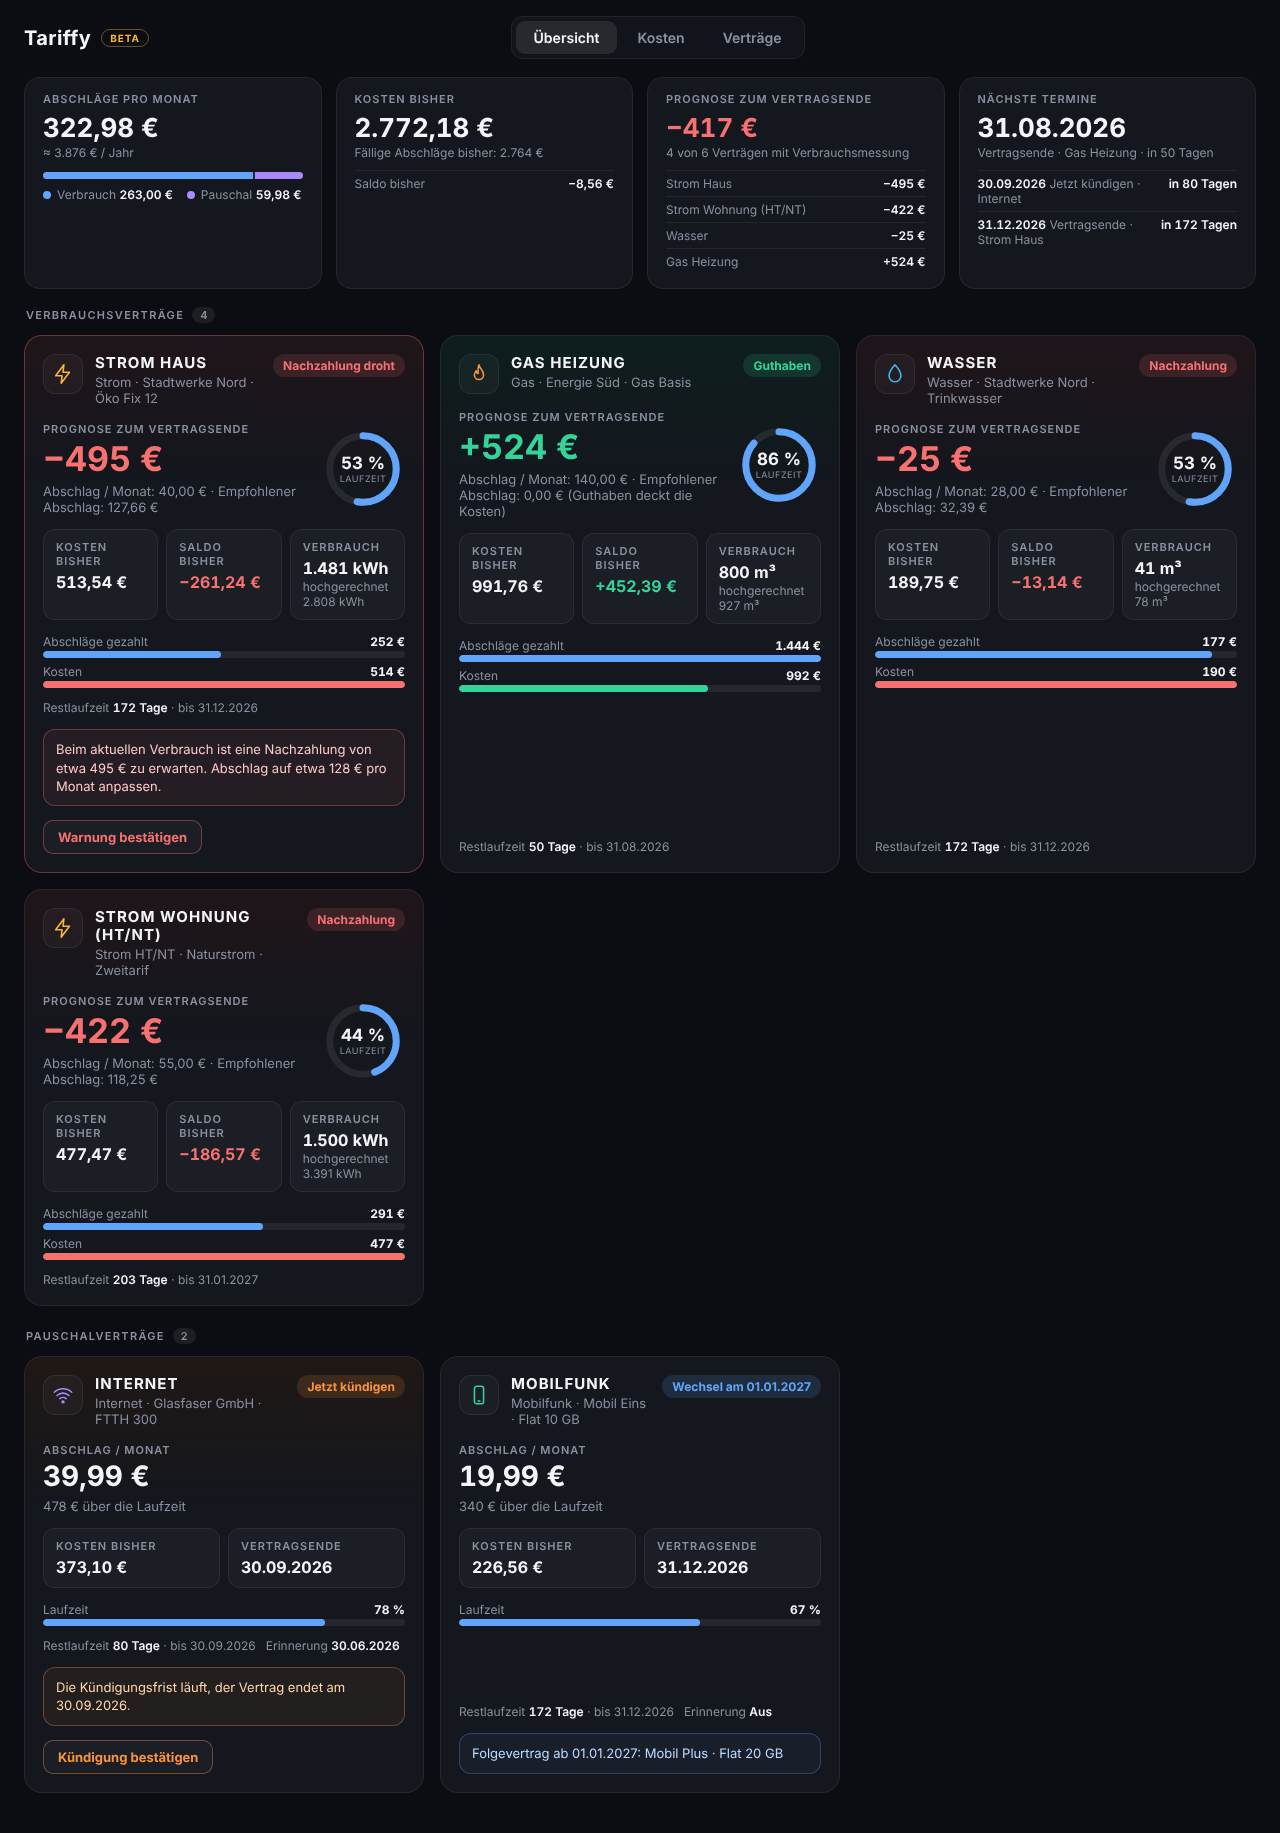
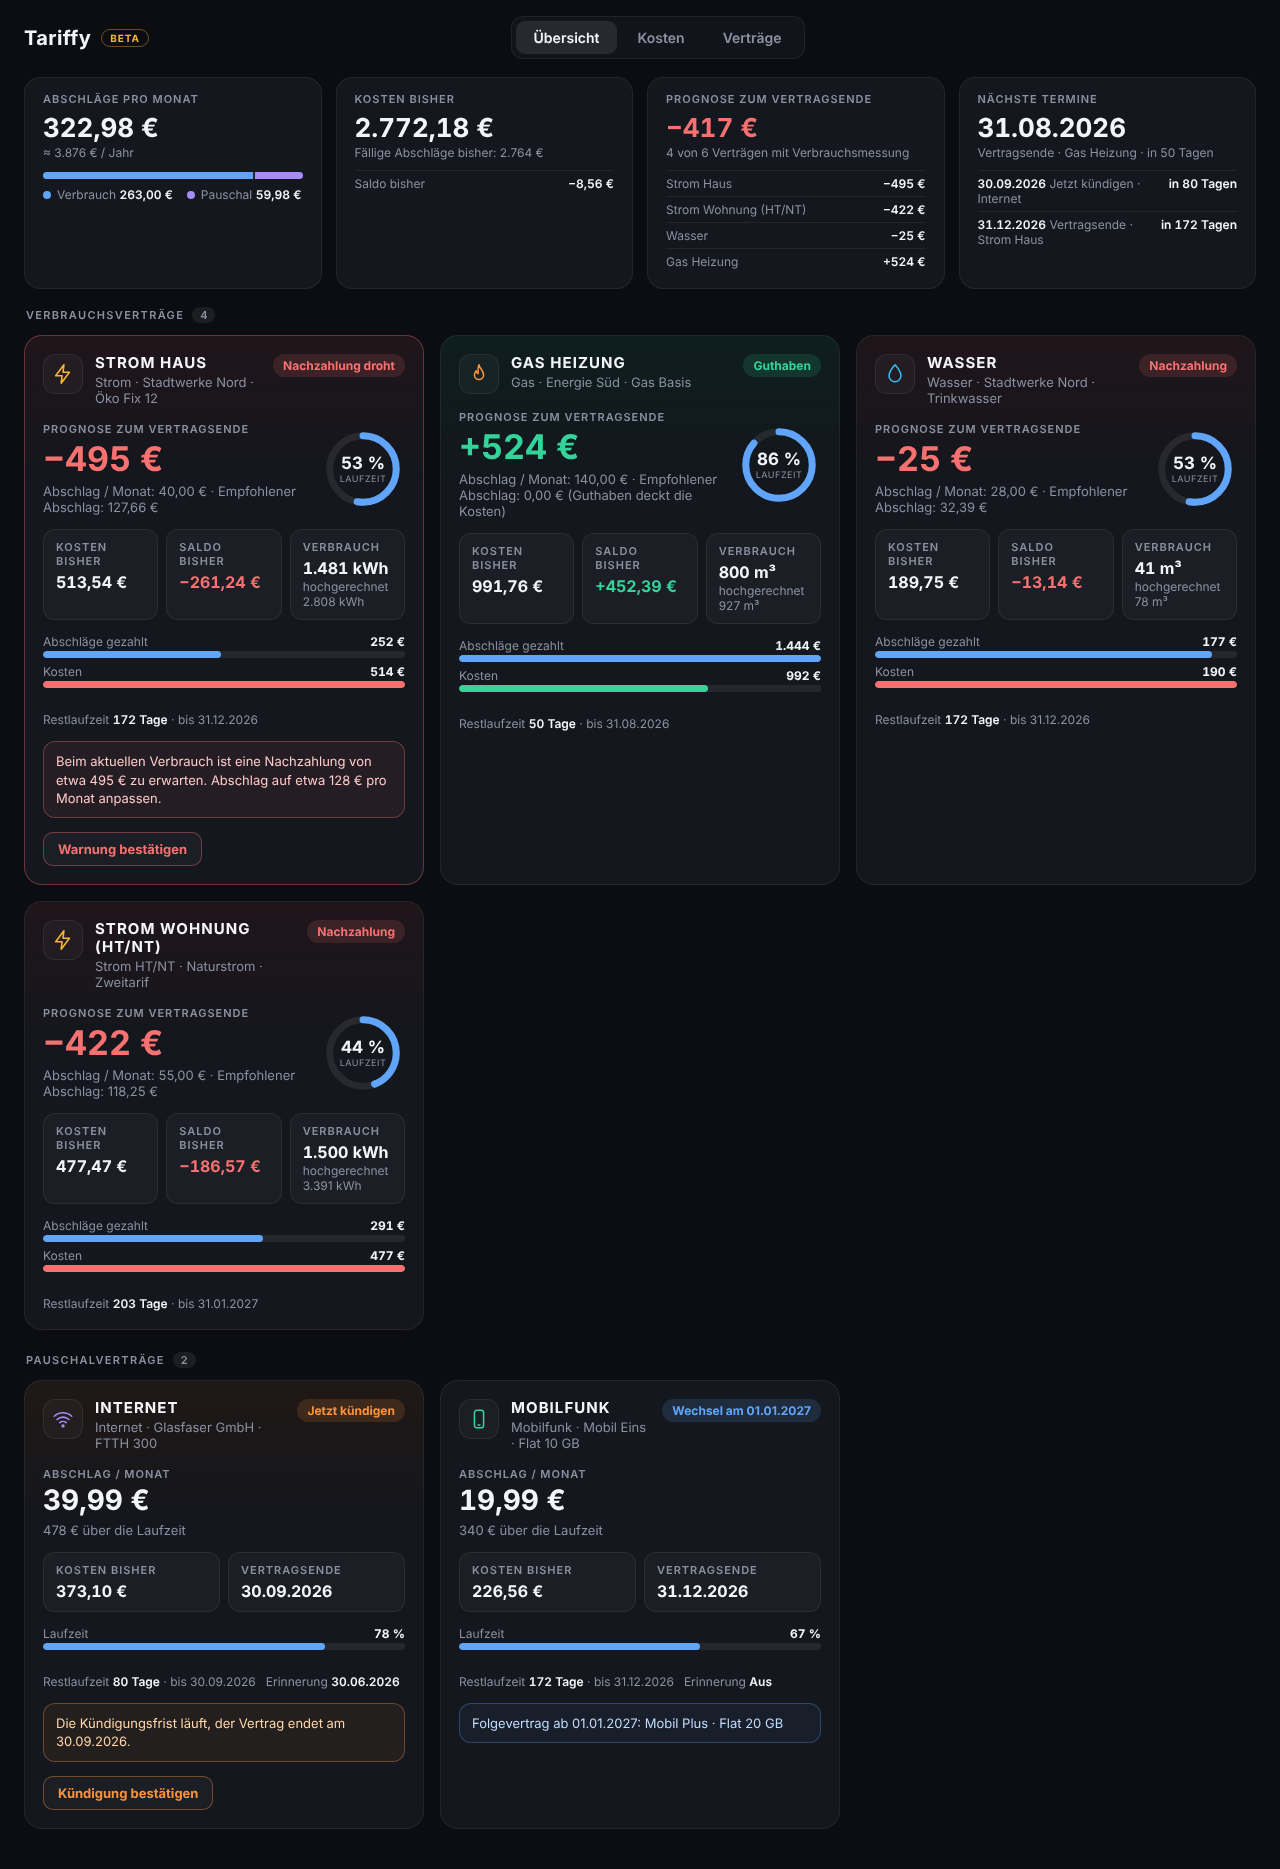
Panel: remaining term directly below the cost bars
Claude-Session: https://claude.ai/code/session_011wNPKqgRVqpMfNb2Np7XaH

diff --git a/custom_components/tariffy/frontend/tariffy-panel.js b/custom_components/tariffy/frontend/tariffy-panel.js
@@ -264,7 +264,7 @@ const STYLE = `
 @container (min-width: 1000px) { .grid.metered, .grid.flat { grid-template-columns: repeat(3, 1fr); } }
 @container (min-width: 1750px) { .grid.metered, .grid.flat { grid-template-columns: repeat(4, 1fr); } }
 section.card { display: flex; flex-direction: column; }
-section.card .foot { margin-top: auto; padding-top: 12px; }
+section.card .foot { padding-top: 12px; }
 .card.flat .big { font-size: 28px; }
 .card { position: relative; background: var(--panel); border: 1px solid var(--line); border-radius: 18px; padding: 18px; }
 .card.tone-green { background: linear-gradient(180deg, rgba(52,211,153,.085), var(--panel) 150px); }

diff --git a/CHANGELOG.md b/CHANGELOG.md
@@ -14,6 +14,7 @@ Third release candidate for testing the sidebar panel. Please report problems wi
 ### Changed
 
 - The badges of a contract card in the overview ("Credit", "Switch on ...", ...) sit at the top right of the card, next to the name, instead of on a line of their own below it. On a phone the card is unchanged.
+- "Remaining term" sits directly below the cost bars instead of at the bottom edge of the card, so there is no gap when a neighbouring card is taller.
 
 ## [1.27.0-rc.2] - 2026-11-06
 

diff --git a/custom_components/tariffy/CHANGELOG.md b/custom_components/tariffy/CHANGELOG.md
@@ -14,6 +14,7 @@ Dritter Release Candidate zum Testen des Seitenleisten-Panels. Bitte melde Probl
 ### Changed
 
 - Die Badges einer Vertragskarte in der Übersicht ("Guthaben", "Wechsel am ...", ...) stehen oben rechts neben dem Namen, statt in einer eigenen Zeile darunter. Auf dem Handy bleibt die Karte unverändert.
+- Die "Restlaufzeit" steht direkt unter den Kosten-Balken statt am unteren Rand der Karte, damit keine Lücke entsteht, wenn die Nachbarkarte höher ist.
 
 ## [1.27.0-rc.2] - 2026-11-06
 
